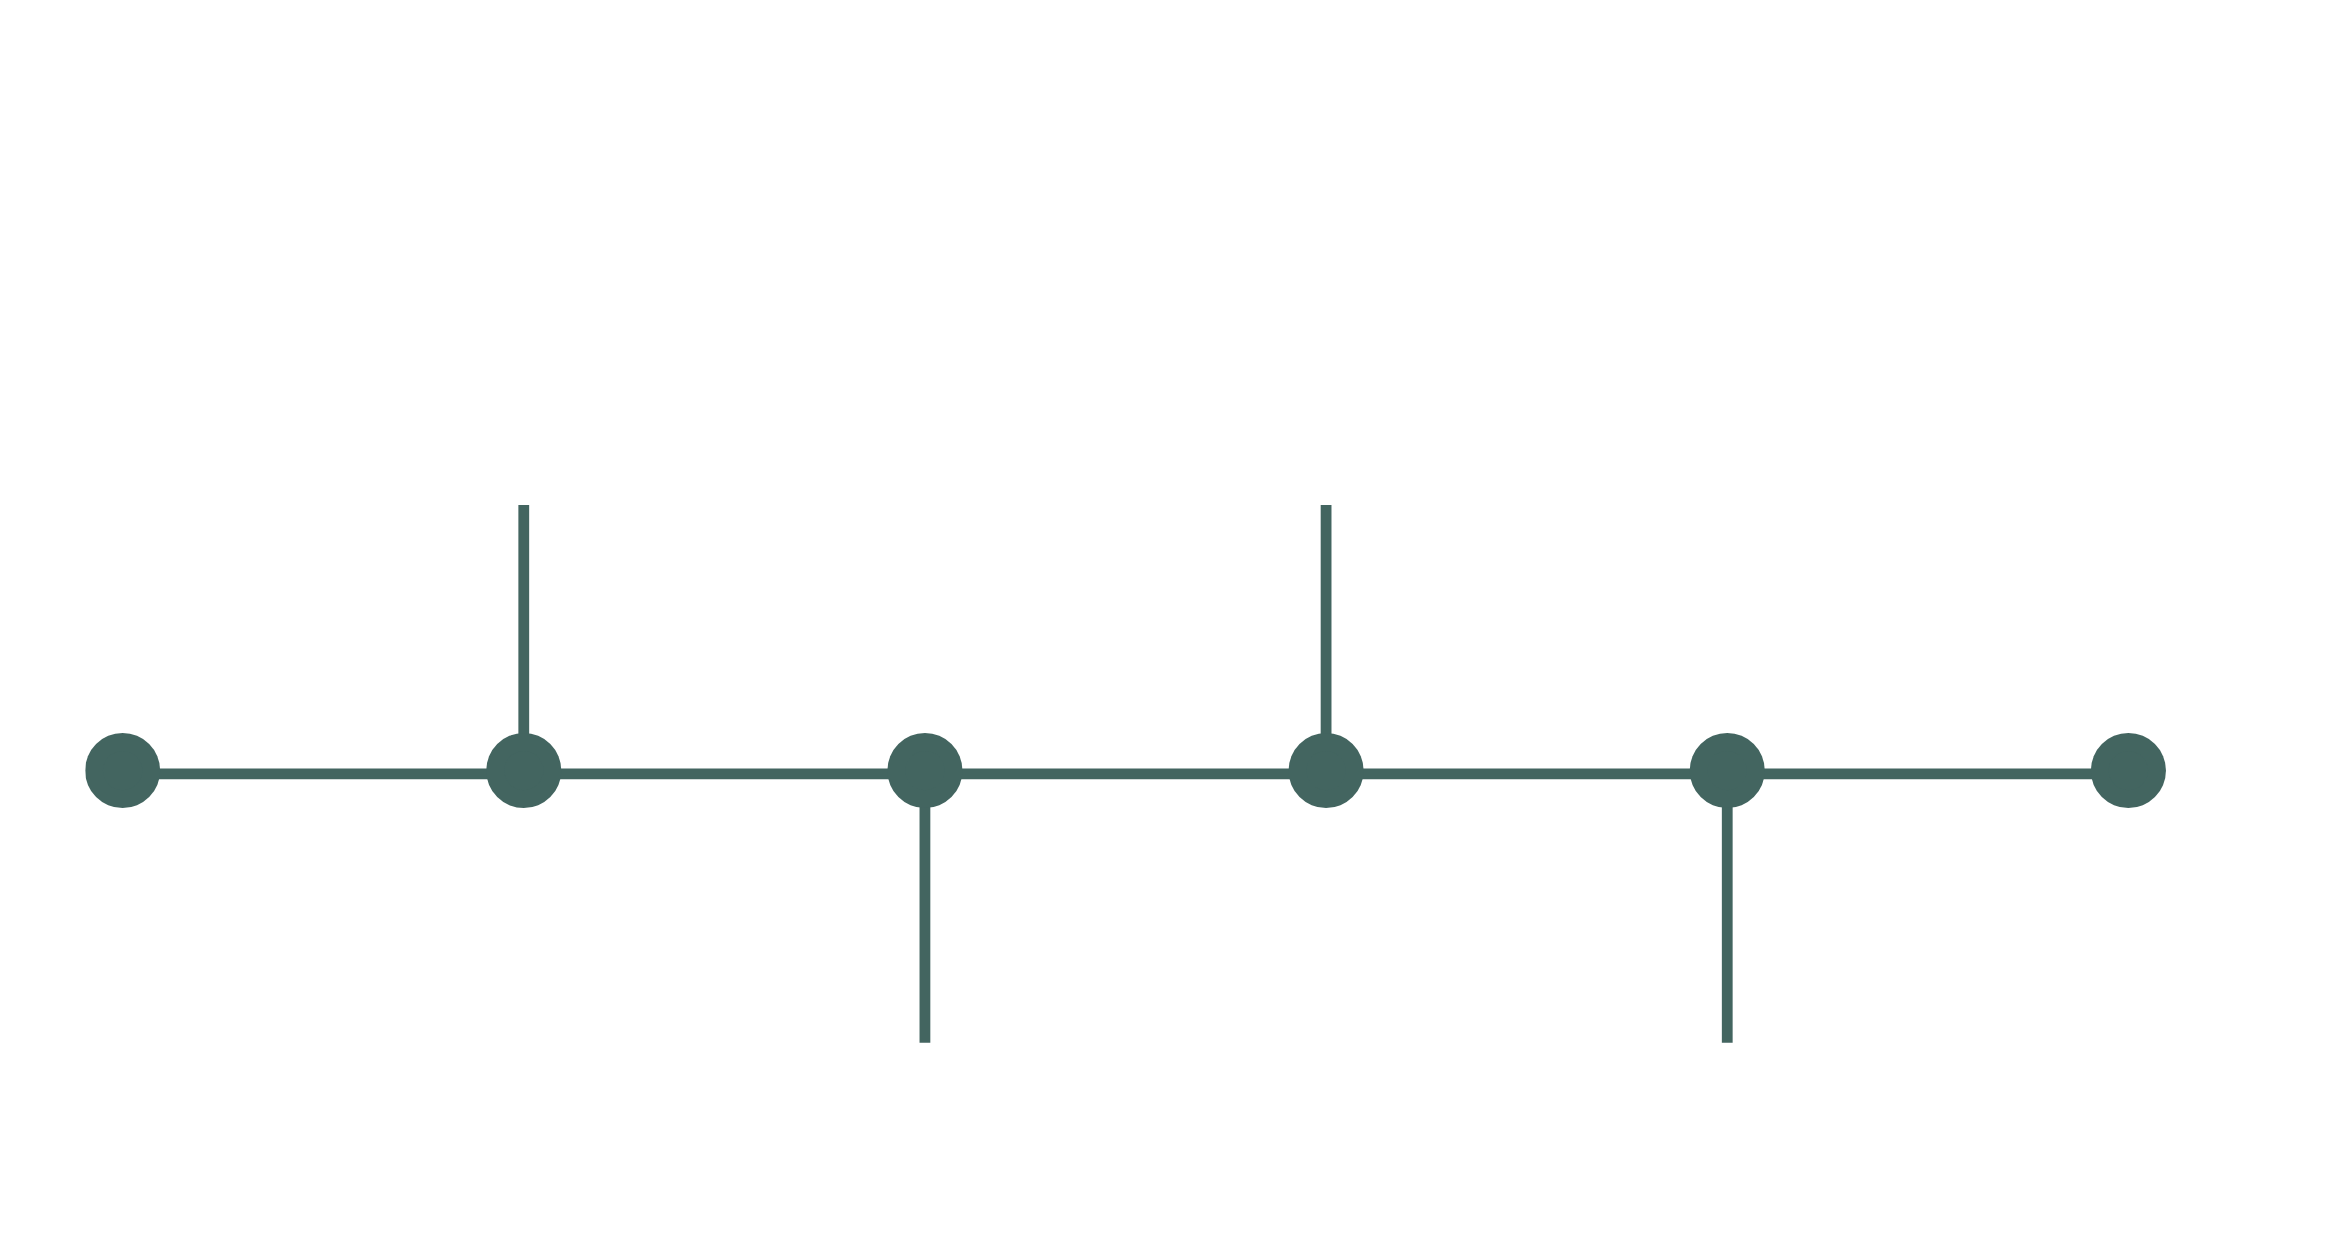
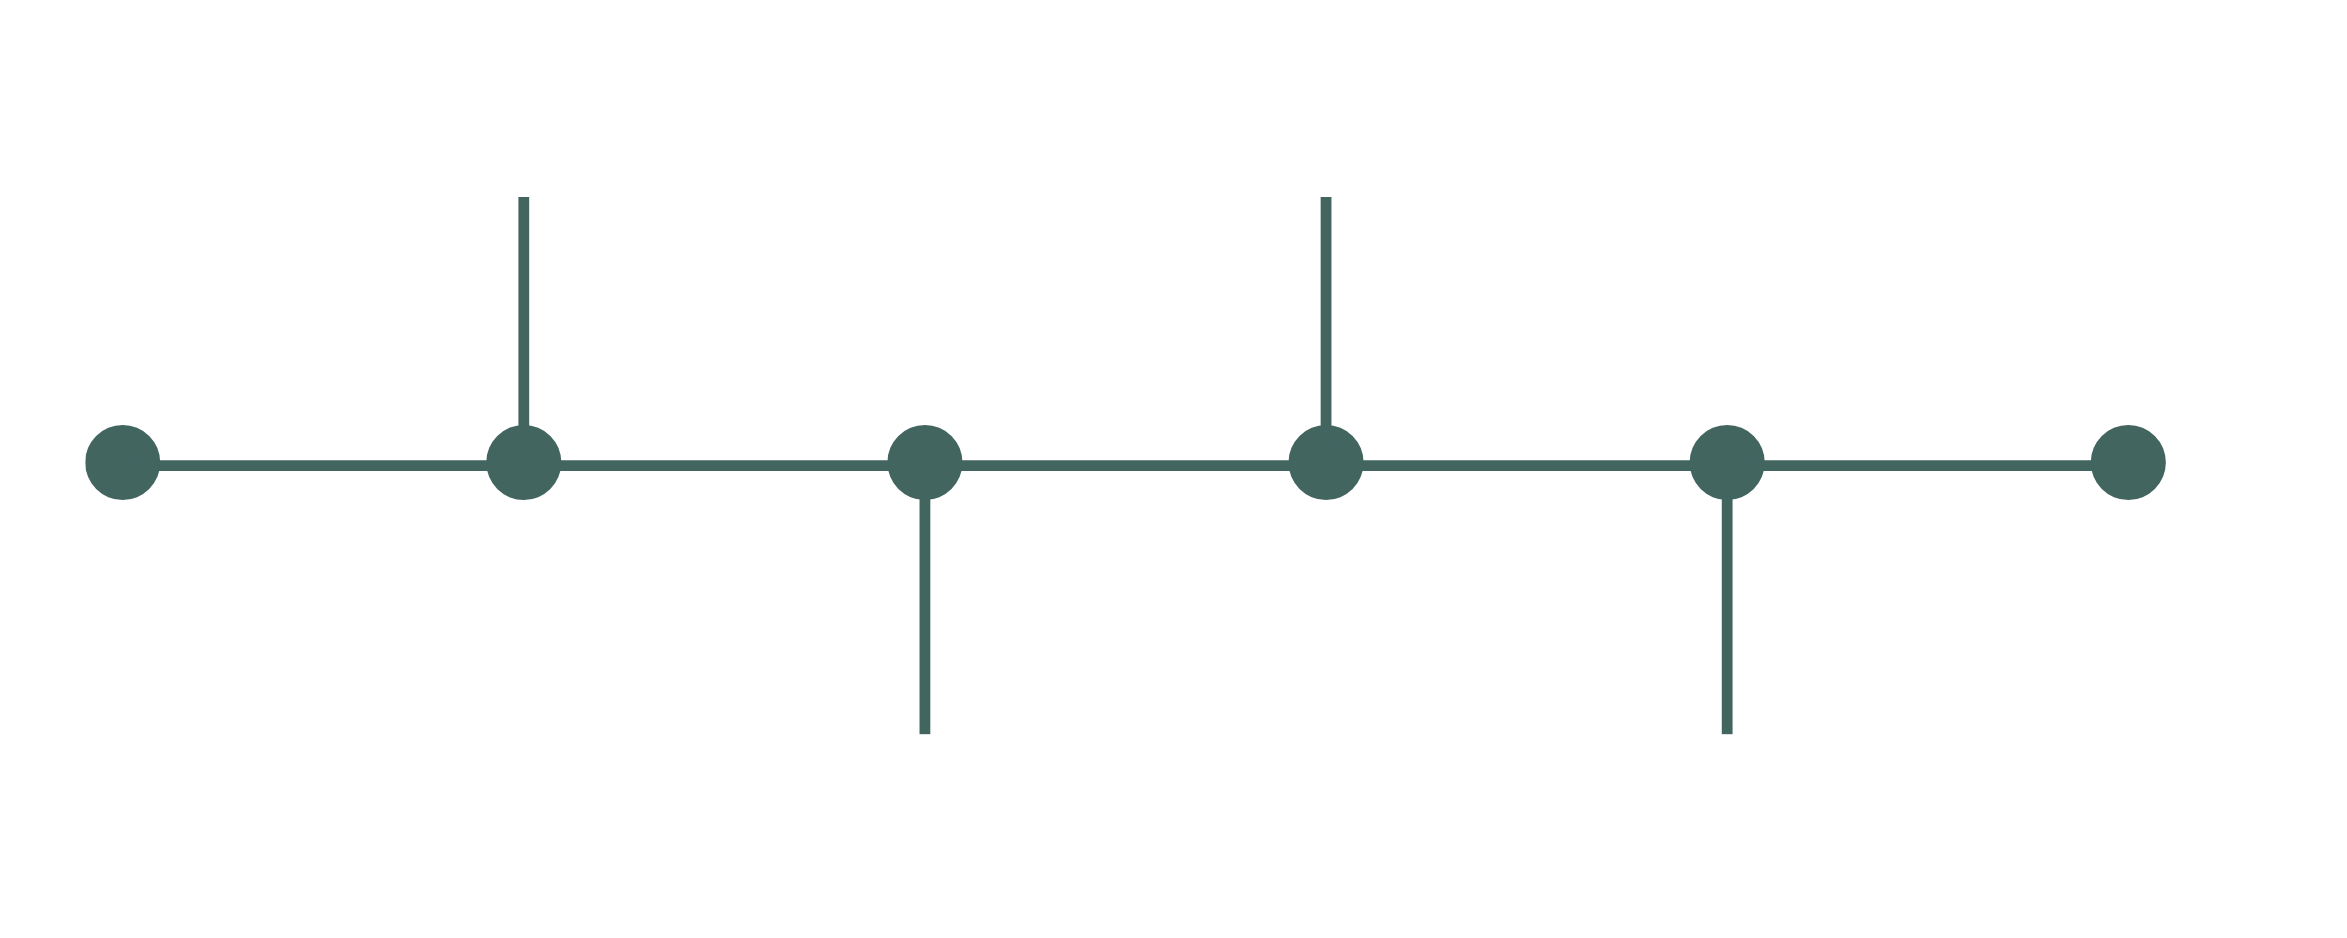
revised

diff --git a/assets/css/main.css b/assets/css/main.css
@@ -453,10 +453,10 @@ figcaption {
 .project-title {
 	max-width: 14.5ch;
 	font-family: var(--font-sans);
-	font-size: clamp(3.4rem, 5vw, 6.4rem);
+	font-size: clamp(2.65rem, 3.9vw, 5rem);
 	font-weight: 600;
-	line-height: 0.9;
-	letter-spacing: -0.055em;
+	line-height: 0.92;
+	letter-spacing: -0.045em;
 	text-transform: uppercase;
 }
 
@@ -804,8 +804,10 @@ figcaption {
 	width: min(100%, 256px);
 }
 
-.process-item--05 {
-	grid-column: 1 / -1;
+.process-diagram--ending-routing {
+	width: min(100%, 285px);
+	margin-top: 0;
+	align-self: center;
 }
 
 .process-diagram--stacked {
@@ -1066,7 +1068,7 @@ figcaption {
 	line-height: 1;
 	letter-spacing: 0;
 	text-align: center;
-	transition: color 220ms ease;
+	transition: color 180ms ease;
 }
 
 .contact-icon svg {
@@ -1091,7 +1093,7 @@ figcaption {
 	line-height: 1.2;
 	letter-spacing: 0.02em;
 	text-transform: uppercase;
-	transition: color 220ms ease;
+	transition: color 180ms ease;
 }
 
 .contact-links small {
@@ -1292,7 +1294,9 @@ figcaption {
 	}
 
 	.project-heading h3 {
-		font-size: clamp(2.8rem, 13vw, 4.4rem);
+		font-size: clamp(2.35rem, 11vw, 3.65rem);
+		line-height: 0.94;
+		letter-spacing: -0.035em;
 		max-width: 100%;
 	}
 
@@ -1329,6 +1333,12 @@ figcaption {
 	.process-diagram--standard {
 		width: min(51.6vw, 204px);
 		max-width: none;
+	}
+
+	.process-diagram--ending-routing {
+		width: min(51.6vw, 198px);
+		max-width: none;
+		align-self: auto;
 	}
 
 	.process-diagram img {
@@ -1369,6 +1379,15 @@ figcaption {
 }
 
 @media (hover: none), (pointer: coarse) {
+	.contact-item:active .contact-icon,
+	.contact-item:active span:not(.contact-icon),
+	.contact-item:active strong,
+	.contact-item:focus-visible .contact-icon,
+	.contact-item:focus-visible span:not(.contact-icon),
+	.contact-item:focus-visible strong {
+		color: var(--accent);
+	}
+
 	.visual-card,
 	.visual-card img,
 	.work-card,

diff --git a/index.html b/index.html
@@ -200,7 +200,7 @@
 										<span class="process-kicker">Process 04</span>
 										<h3>AI Dialogue & Runtime Response</h3>
 										<p>The dialogue system supports voice or text input through a structured interaction loop. Each player response is sent to the LLM manager, which returns a structured runtime response containing emotional state, narrative direction and cinematic tone.</p>
-										<p>During the dialogue scene, the character’s emotional state updates in real time, influencing camera, lighting, cinematic staging and ending direction as the conversation unfolds.</p>
+										<p>During the dialogue scene, the character’s emotional state updates in real time, influencing camera, lighting, cinematic staging and ending direction as the conversation unfolds. Four emotional values — rage, trust, agency and shame — apply pressure toward different ending routes.</p>
 									</div>
 									<figure class="process-diagram process-diagram--standard">
 										<div class="process-diagram__media">
@@ -209,6 +209,13 @@
 										<figcaption>AI Dialogue and Runtime Context</figcaption>
 									</figure>
 								</section>
+
+								<figure class="process-diagram process-diagram--ending-routing">
+									<div class="process-diagram__media">
+										<img src="images/seb_ending_routing.jpg" alt="Emotional routing diagram based on rage, trust, agency and shame" />
+									</div>
+									<figcaption>Emotional State and Ending Routing</figcaption>
+								</figure>
 
 								<section class="process-block process-item--05">
 									<div class="process-copy">
